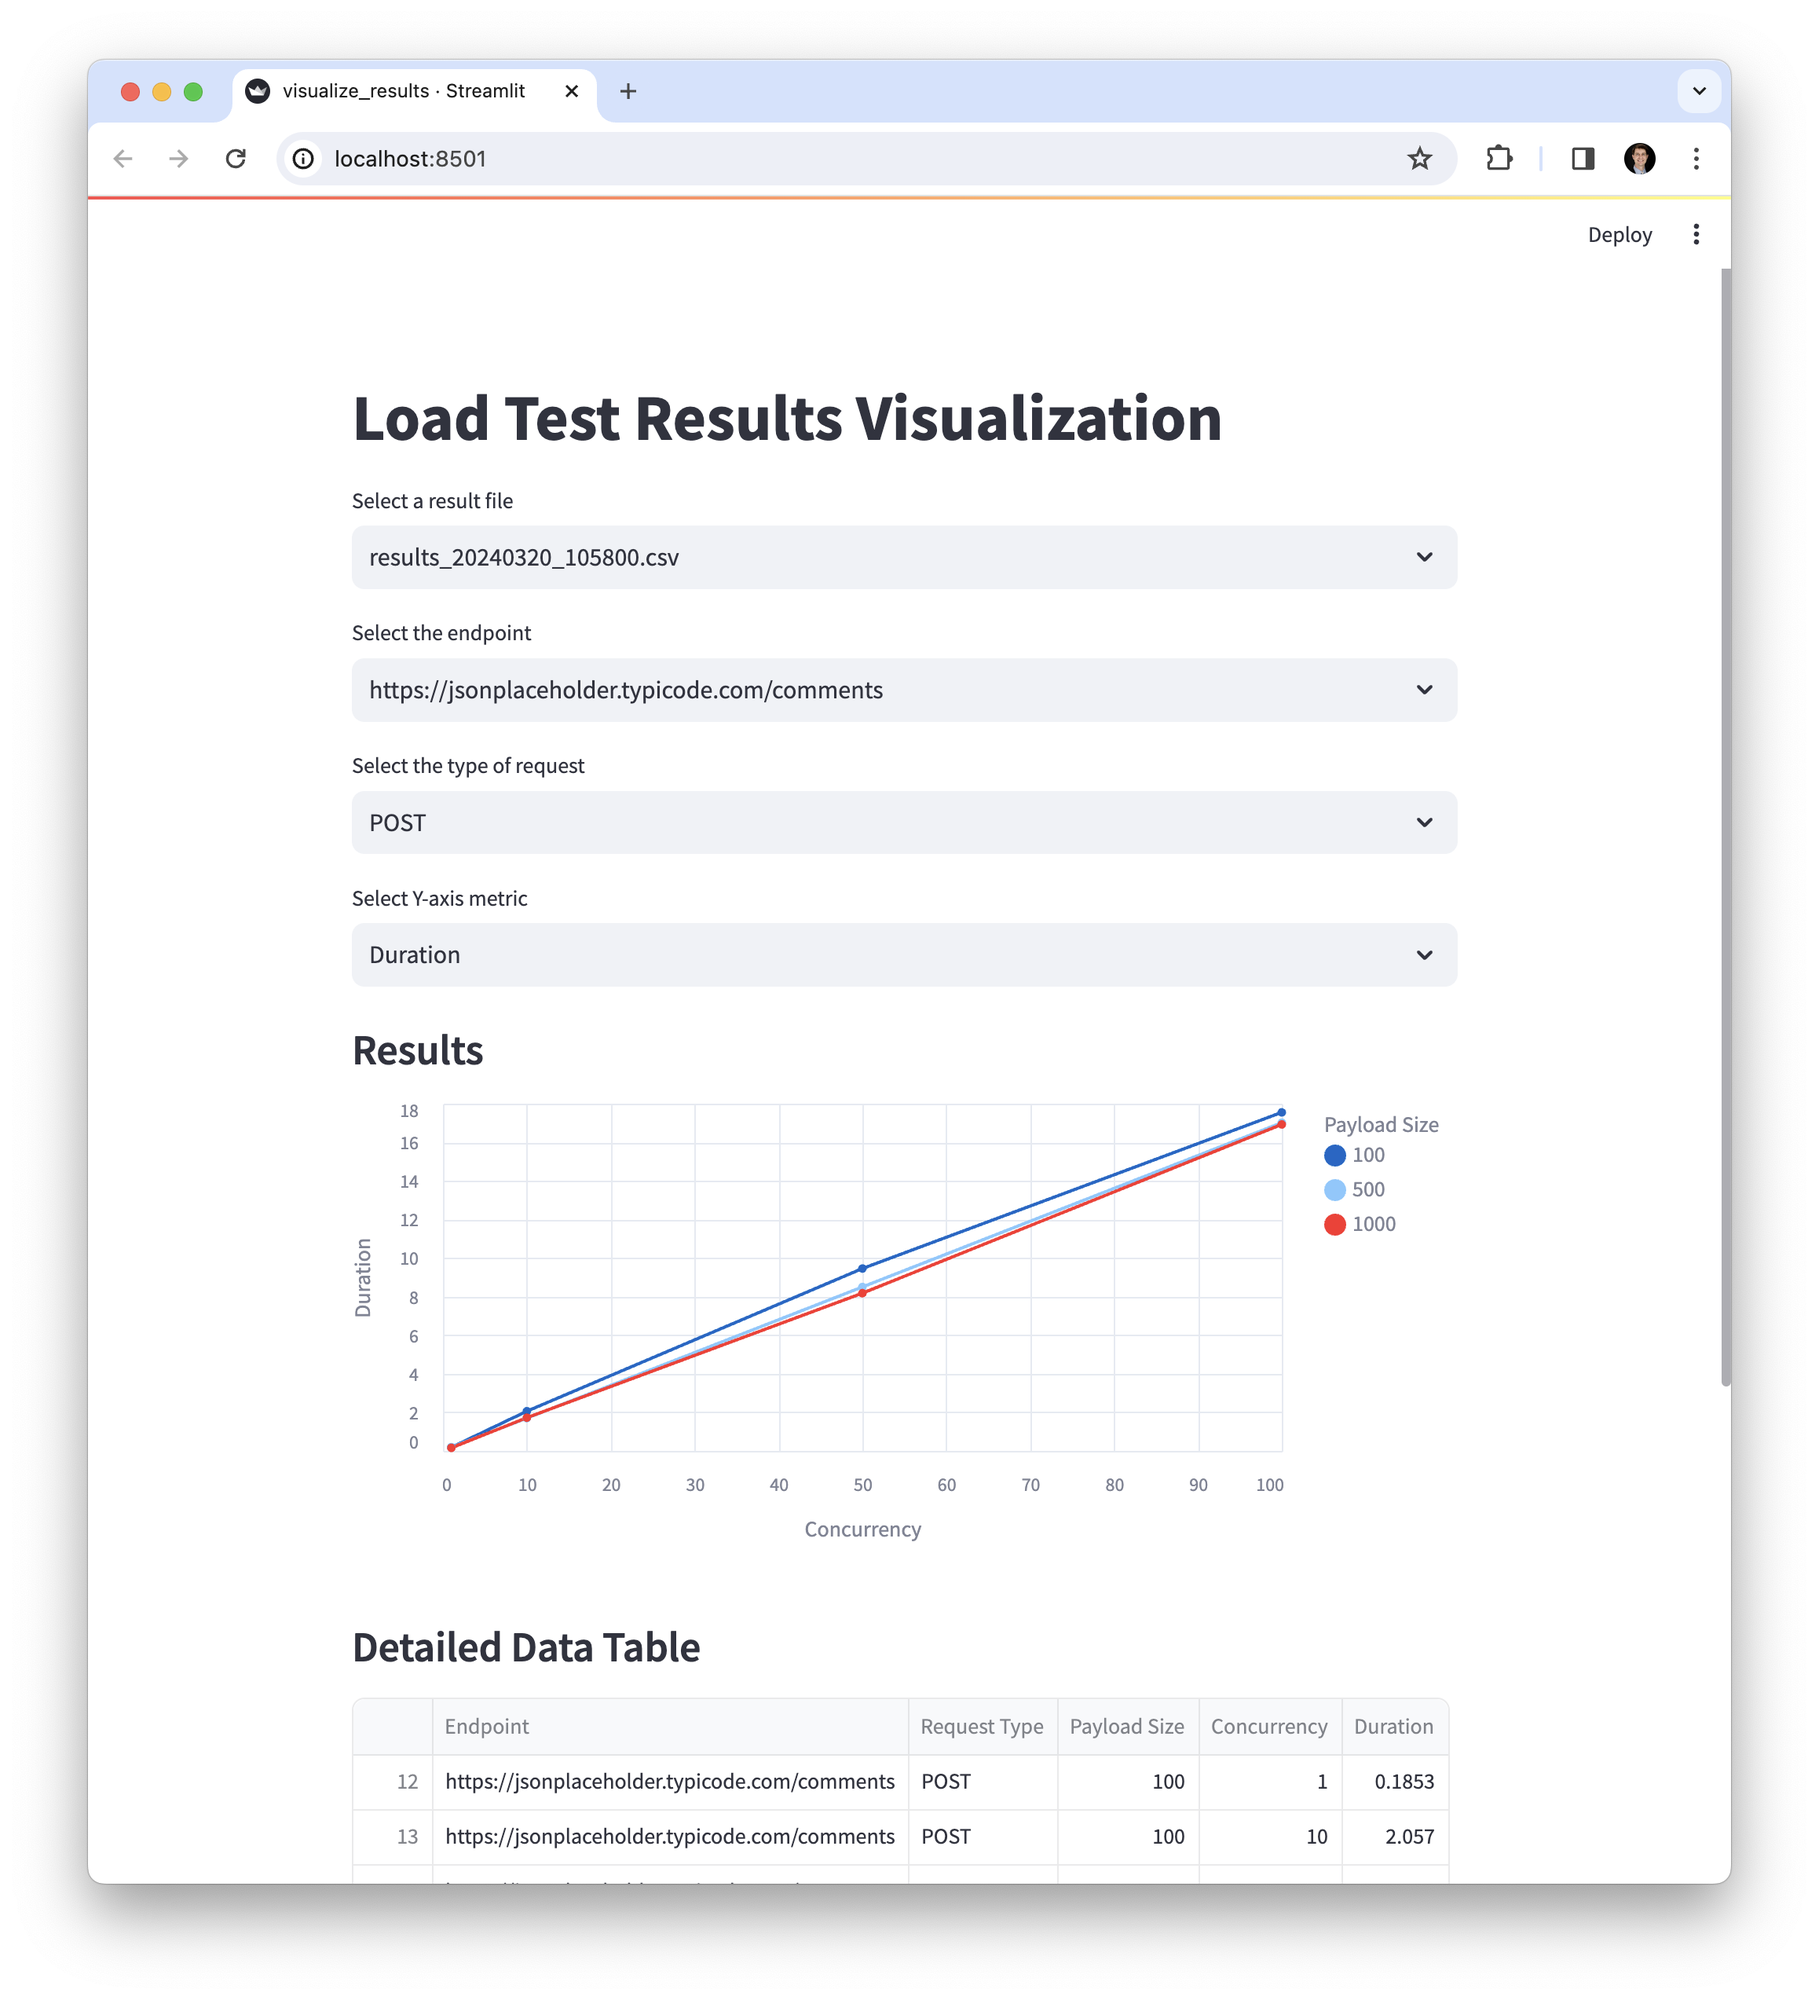
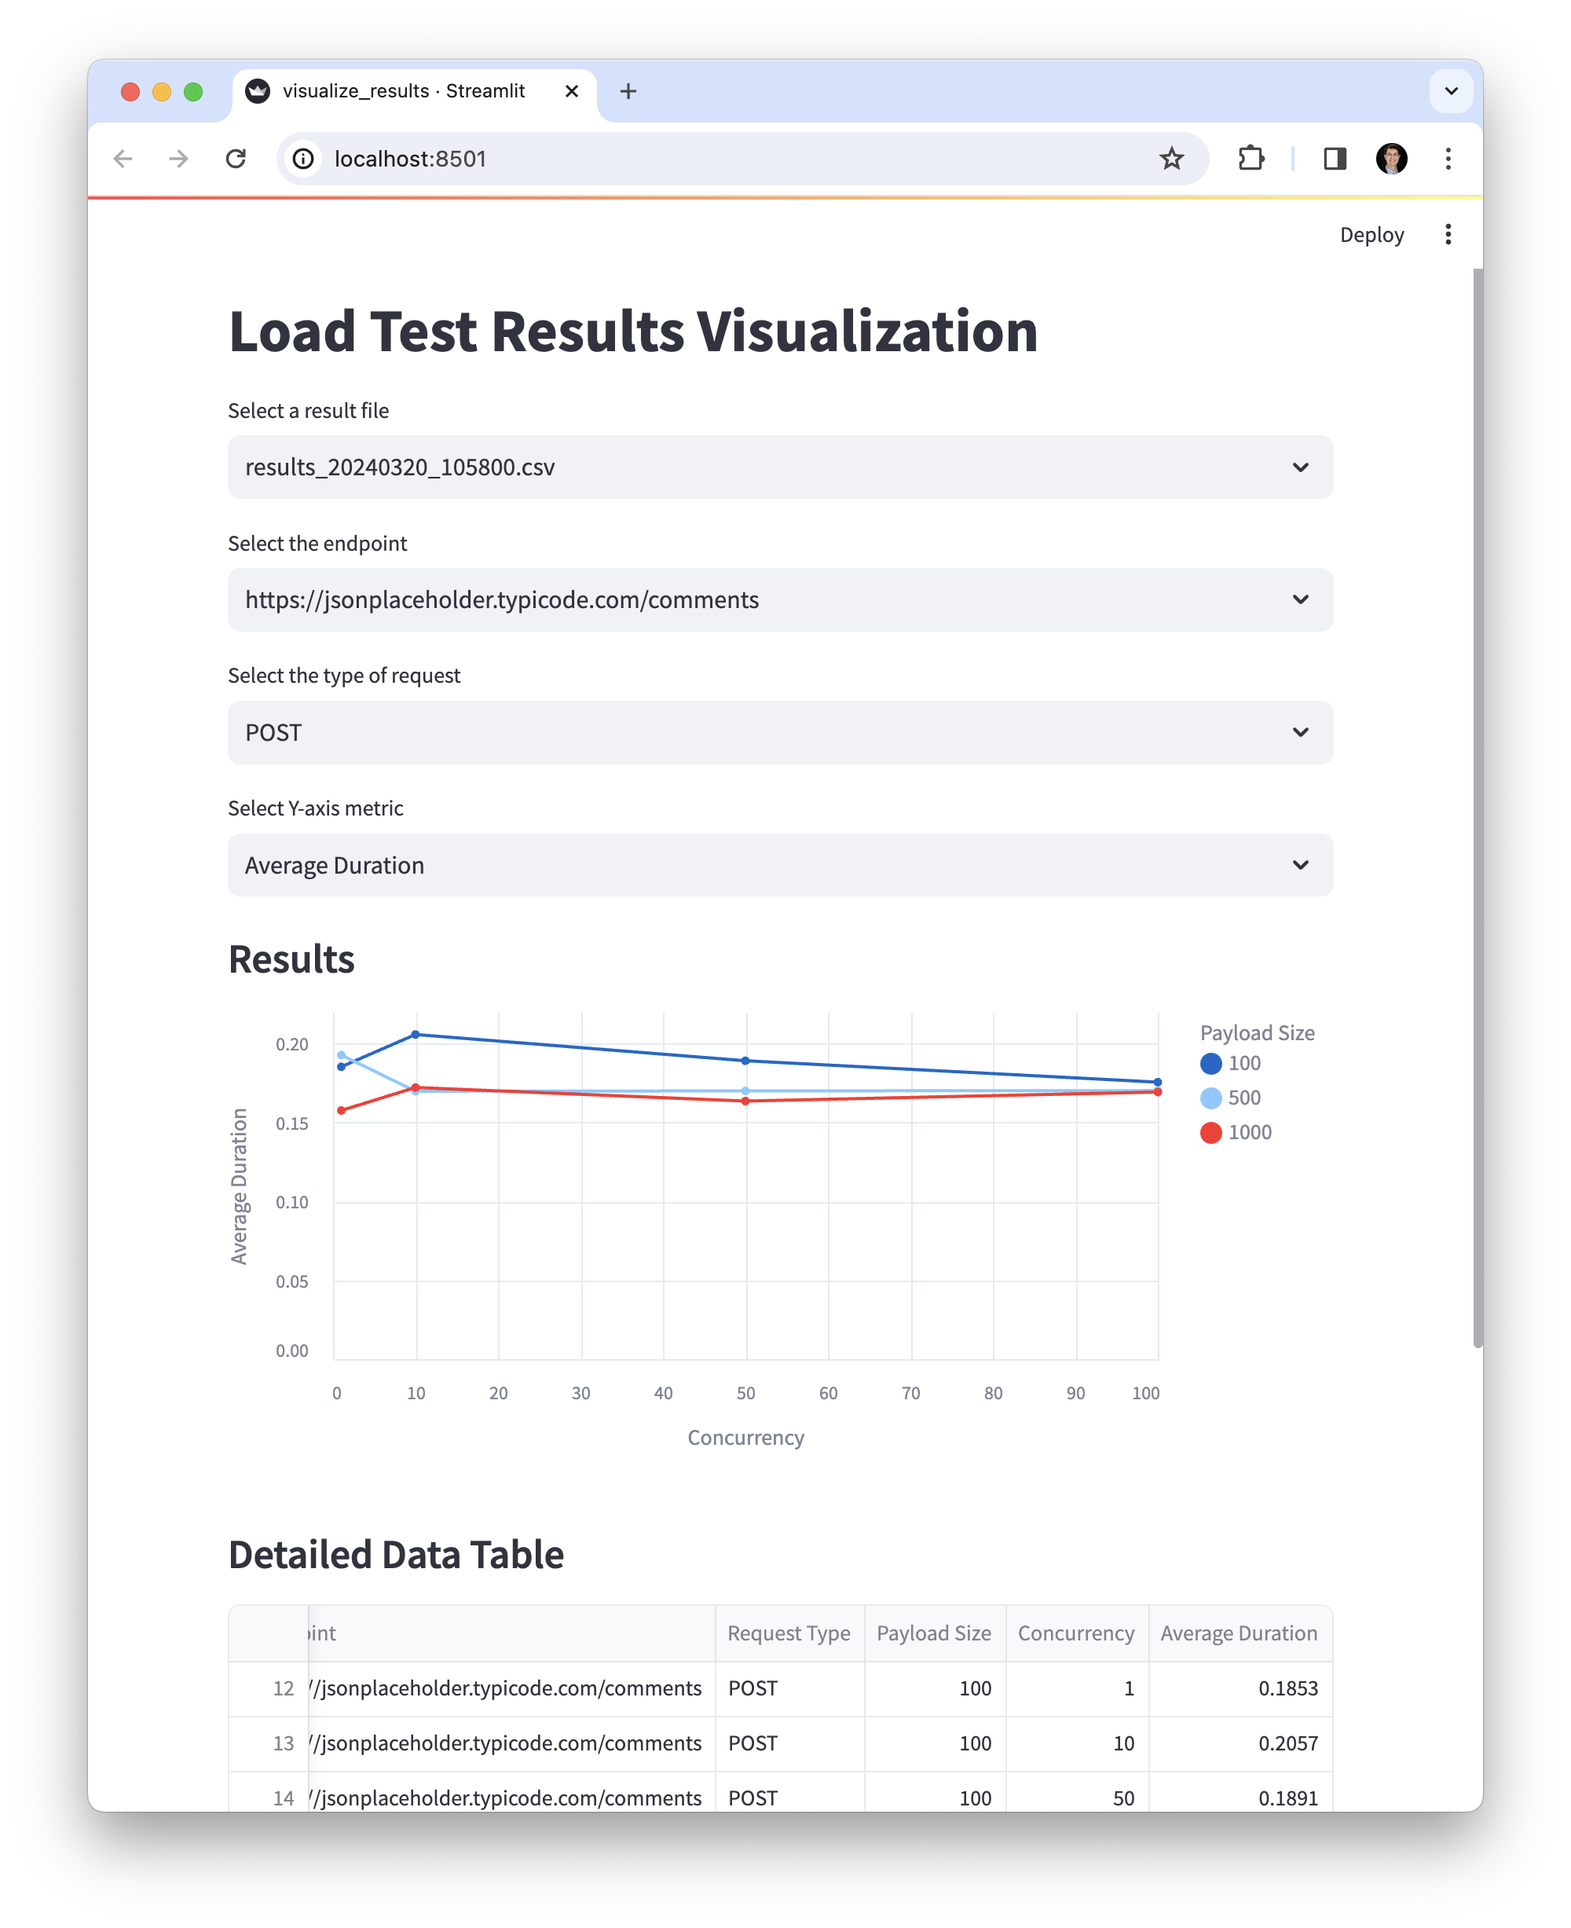
Add Average Duration to app; images

diff --git a/loadtest/visualize_results.py b/loadtest/visualize_results.py
@@ -1,3 +1,4 @@
+# loadtest/visualize_results.py
 import streamlit as st
 import pandas as pd
 import altair as alt
@@ -43,12 +44,22 @@ def visualize_data(
     request_type = st.selectbox(
         "Select the type of request", data["Request Type"].unique()
     )
-    y_axis = st.selectbox("Select Y-axis metric", ["Duration", "Failures"])
+    y_axis = st.selectbox("Select Y-axis metric", ["Average Duration", "Duration", "Failures"])
 
     # Filter data based on the selected request type and endpoint
     filtered_data = data[
         (data["Request Type"] == request_type) & (data["Endpoint"] == endpoint)
     ]
+
+    if y_axis == "Average Duration" or y_axis == "Duration":
+        # Calculate average duration if needed
+        filtered_data["Average Duration"] = filtered_data["Duration"] / filtered_data["Concurrency"]
+        if y_axis == "Average Duration":
+            y_axis_value = "Average Duration"
+        else:
+            y_axis_value = "Duration"
+    else:
+        y_axis_value = y_axis
 
     # Generate and display the Altair chart
     st.markdown("### Results")
@@ -57,13 +68,13 @@ def visualize_data(
         .mark_line(point=True)
         .encode(
             x=alt.X("Concurrency:Q", title="Concurrency"),
-            y=alt.Y(f"{y_axis}:Q", title=y_axis),
+            y=alt.Y(f"{y_axis_value}:Q", title=y_axis_value),
             color=alt.Color("Payload Size:N", title="Payload Size"),
             tooltip=[
                 alt.Tooltip("Endpoint:N", title="Endpoint"),
                 alt.Tooltip("Request Type:N", title="Request Type"),
                 alt.Tooltip("Concurrency:Q", title="Concurrency"),
-                alt.Tooltip(f"{y_axis}:Q", title=y_axis),
+                alt.Tooltip(f"{y_axis_value}:Q", title=y_axis_value),
                 alt.Tooltip("Payload Size:N", title="Payload Size"),
             ],
         )
@@ -74,11 +85,11 @@ def visualize_data(
 
     # Display the data table below the chart
     st.markdown("### Detailed Data Table")
-    st.write(
-        filtered_data[
-            ["Endpoint", "Request Type", "Payload Size", "Concurrency", y_axis]
-        ]
-    )
+    if y_axis_value != "Duration":  # Show Average Duration in the table if selected
+        display_columns = ["Endpoint", "Request Type", "Payload Size", "Concurrency", y_axis_value]
+    else:
+        display_columns = ["Endpoint", "Request Type", "Payload Size", "Concurrency", "Duration"]
+    st.write(filtered_data[display_columns])
 
 
 if __name__ == "__main__":
